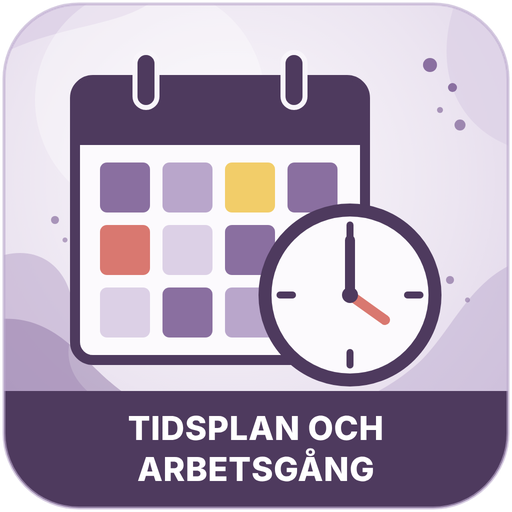
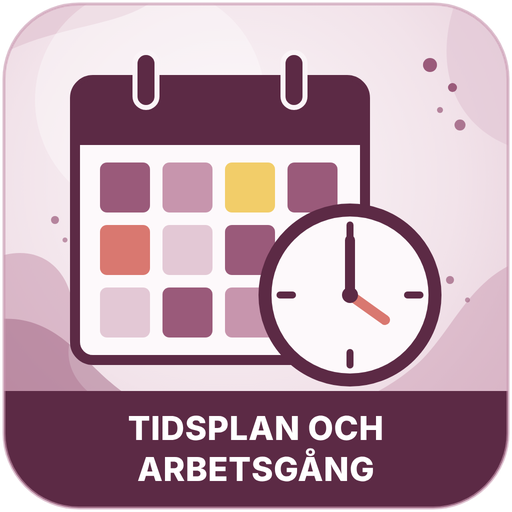
Åk 9 i plommon i stället för lila
Claude-Session: https://claude.ai/code/session_01PGQh3rzhHUhYNfbF9QTgdU

diff --git a/ak9/problemlosning.html b/ak9/problemlosning.html
@@ -5,13 +5,13 @@
 <link href="https://fonts.googleapis.com/css2?family=Inter:wght@400;600;700;800;900&display=swap" rel="stylesheet">
 <link rel="icon" href="../bilder/logo-mattekompassen.png">
 <link rel="stylesheet" href="../stil.css">
-<style>:root{--ink:#4E3A5E;--mid:#8A6FA0;--l:#DCD0E6;--vl:#ECE5F1;--w:#F3EEE4;--hi:#D6C3E8}</style></head><body>
+<style>:root{--ink:#5C2A45;--mid:#9A5A7A;--l:#E3C8D5;--vl:#F2E3EA;--w:#F3EEE4;--hi:#EBC6D6}</style></head><body>
 <header><div class="wrap"><a class="logo" href="../index.html"><img src="../bilder/logo-mattekompassen.png" alt=""><span><b>Mattekompassen</b><small>Örtagårdsskolan 7–9</small></span></a>
 <nav aria-label="Huvudmeny"><a href="../index.html" class="">Startsida</a><a href="../ak7.html" class="">Åk 7</a><a href="../ak8.html" class="">Åk 8</a><a href="../ak9.html" class="on">Åk 9</a></nav></div></header>
 
 <div class="hero"><div class="wrap" style="justify-content:flex-start"><img src="../bilder/ak9/06_Problemlosning.png" alt="" style="width:110px;border-radius:20px">
 <div><div class="etikett">ÅK 9 · MATEMATIK Z</div><h1>Problemlösning</h1></div></div></div>
-<svg class="wave" style="background:#F3EEE4" viewBox="0 0 1440 70" preserveAspectRatio="none" aria-hidden="true"><path d="M0 0 H1440 V25 C1100 80 700 0 360 45 C200 64 80 54 0 35 Z" fill="#4E3A5E"/></svg>
+<svg class="wave" style="background:#F3EEE4" viewBox="0 0 1440 70" preserveAspectRatio="none" aria-hidden="true"><path d="M0 0 H1440 V25 C1100 80 700 0 360 45 C200 64 80 54 0 35 Z" fill="#5C2A45"/></svg>
 <main><section><div class="wrap"><a class="omlank" href="../problemlosning.html">Så arbetar vi med problemlösning: nivåer och strategier →</a><details class="kap"><summary><span>Kapitel 1<small>Tal</small></span></summary><div class="lankar"><a href="https://drive.google.com/file/d/1uT8hYVYjdYvqAfwM3DH2VcEGiId-TMVw/view" target="_blank" rel="noopener"><b>1.1</b>Tal och beräkningar</a><a href="https://drive.google.com/file/d/1e619bYkYJUjx_Or282ayGXcqtMC_XiG5/view" target="_blank" rel="noopener"><b>1.2</b>Räkna med bråk</a><a href="https://drive.google.com/file/d/10bHT61sybIHBzOx17HouQQV5JBvWEgJr/view" target="_blank" rel="noopener"><b>1.3</b>Räkna med negativa tal</a><a href="https://drive.google.com/file/d/1y_YDiPxJ9TTUlpyyhv52GuADNhNRElIC/view" target="_blank" rel="noopener"><b>1.4</b>Räkna med potenser</a><a href="https://drive.google.com/file/d/1p4I-nKuXAcflqdTVnw002_RJEPSU7QwK/view" target="_blank" rel="noopener"><b>1.5</b>Små tal och tiopotenser</a><a href="https://drive.google.com/file/d/1KUJxGF4gtoWgHpZFmbhFsoDhVTgeTHAQ/view" target="_blank" rel="noopener"><b>1.6</b>Räkna med tal i grundpotensform</a><a href="https://drive.google.com/file/d/1tKtVnHqzJ2KyVFpUUxDWTakuMAOsjnIR/view" target="_blank" rel="noopener"><b>1.7</b>Kvadrater och kvadratrötter</a></div></details><details class="kap"><summary><span>Kapitel 2<small>Samband och förändring</small></span></summary><div class="lankar"><a href="https://drive.google.com/file/d/1xci8s0Dz8USkDwsm34szSIoF7p3x8KOz/view" target="_blank" rel="noopener"><b>2.1</b>Procent</a><a href="https://drive.google.com/file/d/1o-iAvwDGoTB2dRvBSzP8vf4wA8XVDlP4/view" target="_blank" rel="noopener"><b>2.2</b>Förändringsfaktor</a><a href="https://drive.google.com/file/d/1-Uy5Ddh9KKGSY3PV3JDYsNailfJRuYHO/view" target="_blank" rel="noopener"><b>2.3</b>Funktioner</a><a href="https://drive.google.com/file/d/10Gwcj3ddKDPrv2S1VF2c5MhLiPgKRxai/view" target="_blank" rel="noopener"><b>2.4</b>Linjära funktioner</a><a href="https://drive.google.com/file/d/161fFAtF3O9xOMkKQR67FKPNKqciu7OAq/view" target="_blank" rel="noopener"><b>2.5</b>Tillämpning av linjära funktioner</a></div></details><details class="kap"><summary><span>Kapitel 3<small>Algebra</small></span></summary><div class="lankar"><a href="https://drive.google.com/file/d/1EwcavIQrnRWiCDJKRw_vS9fXrurrg6VS/view" target="_blank" rel="noopener"><b>3.1</b>Uttryck och mönster</a><a href="https://drive.google.com/file/d/1F60Uhvt6tLUr1RQxnk7otjFE6yrI804U/view" target="_blank" rel="noopener"><b>3.2</b>Förenkling av uttryck</a><a href="https://drive.google.com/file/d/1VyDjVPP1pvcOm_DCCLMPNH8F0yMPd0NL/view" target="_blank" rel="noopener"><b>3.3</b>Ekvationer</a><a href="https://drive.google.com/file/d/1b-2AzAK7xk1OoGW_jjfz2aafXtBqawz7/view" target="_blank" rel="noopener"><b>3.4</b>Procent och ekvationer</a><a href="https://drive.google.com/file/d/1Vp36z4sxWqpMAi_F5Wzt_CpRA9qXC4Wn/view" target="_blank" rel="noopener"><b>3.5</b>Proportion</a><a href="https://drive.google.com/file/d/1Nt-vqDWEUY3uVVDghRmHdMD3PGeMjleW/view" target="_blank" rel="noopener"><b>3.6</b>Ekvationssystem</a></div></details><details class="kap"><summary><span>Kapitel 4<small>Geometri</small></span></summary><div class="lankar"><a href="https://drive.google.com/file/d/1F3I3pCXlj9AFCW_gcBWx8Q3MfcwGyQ3-/view" target="_blank" rel="noopener"><b>4.1</b>Spegling och symmetri</a><a href="https://drive.google.com/file/d/1lVE3a5U51uQf_kmv6EZApZH6gKPgDi1F/view" target="_blank" rel="noopener"><b>4.2</b>Skala</a><a href="https://drive.google.com/file/d/1U7Ok2PyJ1PCa5TNekXDOs-B_XuPHn33S/view" target="_blank" rel="noopener"><b>4.3</b>Ekvationer med flera nämnare</a><a href="https://drive.google.com/file/d/1mF5aOcA_MflrvXa4QMCEr6_ZcHrF4wrG/view" target="_blank" rel="noopener"><b>4.4</b>Likformighet</a><a href="https://drive.google.com/file/d/1aIK56qRB5LVXUFaHbPyIr48HPhiGQQXh/view" target="_blank" rel="noopener"><b>4.5</b>Pythagoras sats</a></div></details>
 <a class="knapp" href="../ak9.html">← Tillbaka till åk 9</a></div></section></main>
 <footer><div class="wrap"><b>Mattekompassen</b><span>Matematik för åk 7–9 på Örtagårdsskolan. Frågor? Prata med din mattelärare.</span></div></footer>

diff --git a/ak9/mal-och-framgangskriterier.html b/ak9/mal-och-framgangskriterier.html
@@ -5,13 +5,13 @@
 <link href="https://fonts.googleapis.com/css2?family=Inter:wght@400;600;700;800;900&display=swap" rel="stylesheet">
 <link rel="icon" href="../bilder/logo-mattekompassen.png">
 <link rel="stylesheet" href="../stil.css">
-<style>:root{--ink:#4E3A5E;--mid:#8A6FA0;--l:#DCD0E6;--vl:#ECE5F1;--w:#F3EEE4;--hi:#D6C3E8}</style></head><body>
+<style>:root{--ink:#5C2A45;--mid:#9A5A7A;--l:#E3C8D5;--vl:#F2E3EA;--w:#F3EEE4;--hi:#EBC6D6}</style></head><body>
 <header><div class="wrap"><a class="logo" href="../index.html"><img src="../bilder/logo-mattekompassen.png" alt=""><span><b>Mattekompassen</b><small>Örtagårdsskolan 7–9</small></span></a>
 <nav aria-label="Huvudmeny"><a href="../index.html" class="">Startsida</a><a href="../ak7.html" class="">Åk 7</a><a href="../ak8.html" class="">Åk 8</a><a href="../ak9.html" class="on">Åk 9</a></nav></div></header>
 
 <div class="hero"><div class="wrap" style="justify-content:flex-start"><img src="../bilder/ak9/09_Mal_och_framgangskriterier.png" alt="" style="width:110px;border-radius:20px">
 <div><div class="etikett">ÅK 9 · MATEMATIK Z</div><h1>Mål och framgångskriterier</h1></div></div></div>
-<svg class="wave" style="background:#F3EEE4" viewBox="0 0 1440 70" preserveAspectRatio="none" aria-hidden="true"><path d="M0 0 H1440 V25 C1100 80 700 0 360 45 C200 64 80 54 0 35 Z" fill="#4E3A5E"/></svg>
+<svg class="wave" style="background:#F3EEE4" viewBox="0 0 1440 70" preserveAspectRatio="none" aria-hidden="true"><path d="M0 0 H1440 V25 C1100 80 700 0 360 45 C200 64 80 54 0 35 Z" fill="#5C2A45"/></svg>
 <main><section><div class="wrap"><details class="kap"><summary><span>Kapitel 1<small>Tal</small></span></summary><div class="lankar"><a href="https://drive.google.com/file/d/1L6GsowKMl_0WOjjED361YzZXj-1MnbUp/view" target="_blank" rel="noopener"><b>1.1</b>Tal och beräkningar</a><a href="https://drive.google.com/file/d/1uTmxWs6y7QDzDEgY3sLv8xnMLzy6Px4h/view" target="_blank" rel="noopener"><b>1.2</b>Räkna med bråk</a><a href="https://drive.google.com/file/d/19xFbvAJLzmuwBFpDjpmLf3fIv_7RVsTj/view" target="_blank" rel="noopener"><b>1.3</b>Räkna med negativa tal</a><a href="https://drive.google.com/file/d/1MPGz9WMXQY7Care9Y58CGKgGY0rv4nrz/view" target="_blank" rel="noopener"><b>1.4</b>Räkna med potenser</a><a href="https://drive.google.com/file/d/1fTVTjZjOQ8_D3CFjWdAOKoJxR6ZfMZX3/view" target="_blank" rel="noopener"><b>1.5</b>Små tal och tiopotenser</a><a href="https://drive.google.com/file/d/1orzoDbs9Wc60TZgm1zzA_nZwUsLsrcF7/view" target="_blank" rel="noopener"><b>1.6</b>Räkna med tal i grundpotensform</a><a href="https://drive.google.com/file/d/1aCa6rcyqyaUlQhH9ntCc7B6F0pv94FpF/view" target="_blank" rel="noopener"><b>1.7</b>Kvadrater och kvadratrötter</a></div></details><details class="kap"><summary><span>Kapitel 2<small>Samband och förändring</small></span></summary><div class="lankar"><a href="https://drive.google.com/file/d/1IPtFYOxrArr8Q2-NPdu3R3MR8pVePO-8/view" target="_blank" rel="noopener"><b>2.1</b>Procent</a><a href="https://drive.google.com/file/d/1rO5921Ndv07jh4HoTIkz91hVwaTcsmhv/view" target="_blank" rel="noopener"><b>2.2</b>Förändringsfaktor</a><a href="https://drive.google.com/file/d/1pa6UDKHojWYWYmvsHvJAfzoMSCP73AG5/view" target="_blank" rel="noopener"><b>2.3</b>Funktioner</a><a href="https://drive.google.com/file/d/1ovT-gnw8dD2rUSHcH_eqTFzdd_Ov8jEj/view" target="_blank" rel="noopener"><b>2.4</b>Linjära funktioner</a><a href="https://drive.google.com/file/d/1ugP-FuPkK846lZUf0OGAjwI0HU4zohvD/view" target="_blank" rel="noopener"><b>2.5</b>Tillämpning av linjära funktioner</a></div></details><details class="kap"><summary><span>Kapitel 3<small>Algebra</small></span></summary><div class="lankar"><a href="https://drive.google.com/file/d/1_NHwrYGg_Qxq2ny1UFtDOEW05VXRMlSE/view" target="_blank" rel="noopener"><b>3.1</b>Uttryck och mönster</a><a href="https://drive.google.com/file/d/1qggYRx80hawWvi9oswVEvkdPCaNRvoFd/view" target="_blank" rel="noopener"><b>3.2</b>Förenkling av uttryck</a><a href="https://drive.google.com/file/d/1rsUfTRqq0ZuScBaOuAeUXEBhwx7nJHxb/view" target="_blank" rel="noopener"><b>3.3</b>Ekvationer</a><a href="https://drive.google.com/file/d/1jPFAWAIOLHfAwB6_Z5vkjs9Yu2QhrkDJ/view" target="_blank" rel="noopener"><b>3.4</b>Procent och ekvationer</a><a href="https://drive.google.com/file/d/1B7BJUOQP4UsQsRG0YDmHxdz7Wgfix_Te/view" target="_blank" rel="noopener"><b>3.5</b>Proportion</a><a href="https://drive.google.com/file/d/1fAp2AeKwCijnN0O7eJGs6Gz2KpQnmbEc/view" target="_blank" rel="noopener"><b>3.6</b>Ekvationssystem</a></div></details><details class="kap"><summary><span>Kapitel 4<small>Geometri</small></span></summary><div class="lankar"><a href="https://drive.google.com/file/d/1rnbq2G2HOvJEgErtJ9ONrzk0Vzi364Cb/view" target="_blank" rel="noopener"><b>4.1</b>Spegling och symmetri</a><a href="https://drive.google.com/file/d/1v6aYrz2VO51gCASLIJT9044mIfbB70GS/view" target="_blank" rel="noopener"><b>4.2</b>Skala</a><a href="https://drive.google.com/file/d/1CWuHMr6KUTWVc9I4hDjXQ2iOMBtiBrdU/view" target="_blank" rel="noopener"><b>4.3</b>Ekvationer med flera nämnare</a><a href="https://drive.google.com/file/d/1fQXwk7gwP734oz9gSAP5X-n2pRB0zFcv/view" target="_blank" rel="noopener"><b>4.4</b>Likformighet</a><a href="https://drive.google.com/file/d/1h7y819khdQIRyUGJKTlrKCs3tRLBSlfz/view" target="_blank" rel="noopener"><b>4.5</b>Pythagoras sats</a></div></details>
 <a class="knapp" href="../ak9.html">← Tillbaka till åk 9</a></div></section></main>
 <footer><div class="wrap"><b>Mattekompassen</b><span>Matematik för åk 7–9 på Örtagårdsskolan. Frågor? Prata med din mattelärare.</span></div></footer>

diff --git a/ak9/tillbakablick.html b/ak9/tillbakablick.html
@@ -5,13 +5,13 @@
 <link href="https://fonts.googleapis.com/css2?family=Inter:wght@400;600;700;800;900&display=swap" rel="stylesheet">
 <link rel="icon" href="../bilder/logo-mattekompassen.png">
 <link rel="stylesheet" href="../stil.css">
-<style>:root{--ink:#4E3A5E;--mid:#8A6FA0;--l:#DCD0E6;--vl:#ECE5F1;--w:#F3EEE4;--hi:#D6C3E8}</style></head><body>
+<style>:root{--ink:#5C2A45;--mid:#9A5A7A;--l:#E3C8D5;--vl:#F2E3EA;--w:#F3EEE4;--hi:#EBC6D6}</style></head><body>
 <header><div class="wrap"><a class="logo" href="../index.html"><img src="../bilder/logo-mattekompassen.png" alt=""><span><b>Mattekompassen</b><small>Örtagårdsskolan 7–9</small></span></a>
 <nav aria-label="Huvudmeny"><a href="../index.html" class="">Startsida</a><a href="../ak7.html" class="">Åk 7</a><a href="../ak8.html" class="">Åk 8</a><a href="../ak9.html" class="on">Åk 9</a></nav></div></header>
 
 <div class="hero"><div class="wrap" style="justify-content:flex-start"><img src="../bilder/ak9/08_Tillbakablick.png" alt="" style="width:110px;border-radius:20px">
 <div><div class="etikett">ÅK 9 · MATEMATIK Z</div><h1>Tillbakablick</h1></div></div></div>
-<svg class="wave" style="background:#F3EEE4" viewBox="0 0 1440 70" preserveAspectRatio="none" aria-hidden="true"><path d="M0 0 H1440 V25 C1100 80 700 0 360 45 C200 64 80 54 0 35 Z" fill="#4E3A5E"/></svg>
+<svg class="wave" style="background:#F3EEE4" viewBox="0 0 1440 70" preserveAspectRatio="none" aria-hidden="true"><path d="M0 0 H1440 V25 C1100 80 700 0 360 45 C200 64 80 54 0 35 Z" fill="#5C2A45"/></svg>
 <main><section><div class="wrap"><details class="kap"><summary><span>Kapitel 1<small>Tal</small></span></summary><div class="lankar"><a href="https://drive.google.com/file/d/11TOptj3iIhA4dyjIOF5UEO7hK1nH4Otw/view" target="_blank" rel="noopener"><b>1.1</b>Tal och beräkningar</a><a href="https://drive.google.com/file/d/1Y_AxlgCsFJLCxXEUB1jrOH66NI2J-7W9/view" target="_blank" rel="noopener"><b>1.2</b>Räkna med bråk</a><a href="https://drive.google.com/file/d/1njBjNhVd3bwQLGXbaPQjIig4P_Qho355/view" target="_blank" rel="noopener"><b>1.3</b>Räkna med negativa tal</a><a href="https://drive.google.com/file/d/1puzAdaa2RawFCm4uGAHmWTaf1byeTnmf/view" target="_blank" rel="noopener"><b>1.4</b>Räkna med potenser</a><a href="https://drive.google.com/file/d/1fOl6lWNQ5xfgkH5dtrdeItLMrfLphZbi/view" target="_blank" rel="noopener"><b>1.5</b>Små tal och tiopotenser</a><a href="https://drive.google.com/file/d/1eycIkPA7gtb47APnBUwUQbikLrmqt6lk/view" target="_blank" rel="noopener"><b>1.6</b>Räkna med tal i grundpotensform</a><a href="https://drive.google.com/file/d/17ZZ3-_W7FO31dYA12mkJ_5Q4FVOPP7gV/view" target="_blank" rel="noopener"><b>1.7</b>Kvadrater och kvadratrötter</a></div></details><details class="kap"><summary><span>Kapitel 2<small>Samband och förändring</small></span></summary><div class="lankar"><a href="https://drive.google.com/file/d/1R2U45LBlIXnv42Xj-pPEyUdb7uEdo-mB/view" target="_blank" rel="noopener"><b>2.1</b>Procent</a><a href="https://drive.google.com/file/d/1VoG4_boWk9pGfs8GPdBWlttxGlY-6azN/view" target="_blank" rel="noopener"><b>2.2</b>Förändringsfaktor</a><a href="https://drive.google.com/file/d/1CHsz2vRQNdS6T9e6HJVlduCR13oH2aNb/view" target="_blank" rel="noopener"><b>2.3</b>Funktioner</a><a href="https://drive.google.com/file/d/1iqX0oM3lmjrCshPa6FXWexzKszBPdBCw/view" target="_blank" rel="noopener"><b>2.4</b>Linjära funktioner</a><a href="https://drive.google.com/file/d/16HiAKbssc-upJNqyiQLejOdrDnUkTNWN/view" target="_blank" rel="noopener"><b>2.5</b>Tillämpning av linjära funktioner</a></div></details><details class="kap"><summary><span>Kapitel 3<small>Algebra</small></span></summary><div class="lankar"><a href="https://drive.google.com/file/d/1qRiwj_57Y7DT0HDC9nTUy8n5aHmBSYMZ/view" target="_blank" rel="noopener"><b>3.1</b>Uttryck och mönster</a><a href="https://drive.google.com/file/d/1YtuE2m2Q9SX51z2FQxPHyJdVk7mPf40Z/view" target="_blank" rel="noopener"><b>3.2</b>Förenkling av uttryck</a><a href="https://drive.google.com/file/d/1o1x3HiZ0XTelS7J27joN-iHN780GgceO/view" target="_blank" rel="noopener"><b>3.3</b>Ekvationer</a><a href="https://drive.google.com/file/d/1bK8IgT8ccWJUHiFTq2GoxFuOJbkh8z_r/view" target="_blank" rel="noopener"><b>3.4</b>Procent och ekvationer</a><a href="https://drive.google.com/file/d/1GO2Eztl3O2O0eZ2setw_hWidy_4jL9pZ/view" target="_blank" rel="noopener"><b>3.5</b>Proportion</a><a href="https://drive.google.com/file/d/17WuJfWde1Pc8dS9ZmTHgvtQiOOKZfh8u/view" target="_blank" rel="noopener"><b>3.6</b>Ekvationssystem</a></div></details><details class="kap"><summary><span>Kapitel 4<small>Geometri</small></span></summary><div class="lankar"><a href="https://drive.google.com/file/d/1UROs-vBZDiW4n3Ka_247uWLTZQ1Yqpyc/view" target="_blank" rel="noopener"><b>4.1</b>Spegling och symmetri</a><a href="https://drive.google.com/file/d/1BKcJzmGzKsGLDQv_Lks8KqxaJrgO-B2J/view" target="_blank" rel="noopener"><b>4.2</b>Skala</a><a href="https://drive.google.com/file/d/1DIvaw7EqxzTHnKi-BFlgQoKpYyXaFO6z/view" target="_blank" rel="noopener"><b>4.3</b>Ekvationer med flera nämnare</a><a href="https://drive.google.com/file/d/1azOnByuWHKHBdqOfM6CbpbWv8E4csuhS/view" target="_blank" rel="noopener"><b>4.4</b>Likformighet</a><a href="https://drive.google.com/file/d/1FJGHR3xTtzkvfEF3Kr0iJAZeqQg4BmPH/view" target="_blank" rel="noopener"><b>4.5</b>Pythagoras sats</a></div></details>
 <a class="knapp" href="../ak9.html">← Tillbaka till åk 9</a></div></section></main>
 <footer><div class="wrap"><b>Mattekompassen</b><span>Matematik för åk 7–9 på Örtagårdsskolan. Frågor? Prata med din mattelärare.</span></div></footer>

diff --git a/ak9/trana.html b/ak9/trana.html
@@ -5,13 +5,13 @@
 <link href="https://fonts.googleapis.com/css2?family=Inter:wght@400;600;700;800;900&display=swap" rel="stylesheet">
 <link rel="icon" href="../bilder/logo-mattekompassen.png">
 <link rel="stylesheet" href="../stil.css">
-<style>:root{--ink:#4E3A5E;--mid:#8A6FA0;--l:#DCD0E6;--vl:#ECE5F1;--w:#F3EEE4;--hi:#D6C3E8}</style></head><body>
+<style>:root{--ink:#5C2A45;--mid:#9A5A7A;--l:#E3C8D5;--vl:#F2E3EA;--w:#F3EEE4;--hi:#EBC6D6}</style></head><body>
 <header><div class="wrap"><a class="logo" href="../index.html"><img src="../bilder/logo-mattekompassen.png" alt=""><span><b>Mattekompassen</b><small>Örtagårdsskolan 7–9</small></span></a>
 <nav aria-label="Huvudmeny"><a href="../index.html" class="">Startsida</a><a href="../ak7.html" class="">Åk 7</a><a href="../ak8.html" class="">Åk 8</a><a href="../ak9.html" class="on">Åk 9</a></nav></div></header>
 
 <div class="hero"><div class="wrap" style="justify-content:flex-start"><div class="num" aria-hidden="true">9</div>
 <div><div class="etikett">ÅK 9 · MATEMATIK Z · INTERAKTIVA ÖVNINGAR</div><h1>Interaktiva övningar</h1><p>Klicka, dra och få svar direkt. Välj kapitel och typ av övning.</p></div></div></div>
-<svg class="wave" style="background:#F3EEE4" viewBox="0 0 1440 70" preserveAspectRatio="none" aria-hidden="true"><path d="M0 0 H1440 V25 C1100 80 700 0 360 45 C200 64 80 54 0 35 Z" fill="#4E3A5E"/></svg><style>.kapblock{background:#EAE2EF}.kapblock:nth-child(even){background:#F0EAF3}.typ:nth-child(1){background:#5E4A6E}.typ:nth-child(2){background:#6A5478}.typ:nth-child(3){background:#5A4F70}.typ:nth-child(4){background:#6E5A72}.typ:nth-child(5){background:#66506E}.typ b{color:#F1E9F5}</style>
+<svg class="wave" style="background:#F3EEE4" viewBox="0 0 1440 70" preserveAspectRatio="none" aria-hidden="true"><path d="M0 0 H1440 V25 C1100 80 700 0 360 45 C200 64 80 54 0 35 Z" fill="#5C2A45"/></svg><style>.kapblock{background:#F2E3EA}.kapblock:nth-child(even){background:#F6ECF0}.typ:nth-child(1){background:#6A3A54}.typ:nth-child(2){background:#74445E}.typ:nth-child(3){background:#6B4258}.typ:nth-child(4){background:#7A4C63}.typ:nth-child(5){background:#704860}.typ b{color:#F7E9F0}</style>
 <main><section><div class="wrap"><div class="kapblock" id="kap1"><h2>Kapitel 1 <span style="font-weight:500;opacity:.7">Tal</span></h2><div class="typer"><a class="typ" href="trana-rakna.html?kap=1"><b>Per avsnitt</b>🔢 Räkneträning</a><a class="typ" href="trana-exempel.html?kap=1"><b>Titta och välj</b>🔍 Från exempel till ord</a><a class="typ" href="trana-dra.html?kap=1"><b>Ord i mening</b>🧲 Dra ordet</a><a class="typ" href="trana-begrepp.html?kap=1"><b>Hela kapitlet</b>🧩 Matcha begrepp</a><a class="typ" href="trana-quiz.html?kap=1"><b>Flervalsfrågor</b>❓ Quiz</a></div></div><div class="kapblock" id="kap2"><h2>Kapitel 2 <span style="font-weight:500;opacity:.7">Samband och förändring</span></h2><div class="typer"><a class="typ" href="trana-rakna.html?kap=2"><b>Per avsnitt</b>🔢 Räkneträning</a><a class="typ" href="trana-exempel.html?kap=2"><b>Titta och välj</b>🔍 Från exempel till ord</a><a class="typ" href="trana-dra.html?kap=2"><b>Ord i mening</b>🧲 Dra ordet</a><a class="typ" href="trana-begrepp.html?kap=2"><b>Hela kapitlet</b>🧩 Matcha begrepp</a><a class="typ" href="trana-quiz.html?kap=2"><b>Flervalsfrågor</b>❓ Quiz</a></div></div><div class="kapblock" id="kap3"><h2>Kapitel 3 <span style="font-weight:500;opacity:.7">Algebra</span></h2><div class="typer"><a class="typ" href="trana-rakna.html?kap=3"><b>Per avsnitt</b>🔢 Räkneträning</a><a class="typ" href="trana-exempel.html?kap=3"><b>Titta och välj</b>🔍 Från exempel till ord</a><a class="typ" href="trana-dra.html?kap=3"><b>Ord i mening</b>🧲 Dra ordet</a><a class="typ" href="trana-begrepp.html?kap=3"><b>Hela kapitlet</b>🧩 Matcha begrepp</a><a class="typ" href="trana-quiz.html?kap=3"><b>Flervalsfrågor</b>❓ Quiz</a></div></div><div class="kapblock" id="kap4"><h2>Kapitel 4 <span style="font-weight:500;opacity:.7">Geometri</span></h2><div class="typer"><a class="typ" href="trana-rakna.html?kap=4"><b>Per avsnitt</b>🔢 Räkneträning</a><a class="typ" href="trana-exempel.html?kap=4"><b>Titta och välj</b>🔍 Från exempel till ord</a><a class="typ" href="trana-dra.html?kap=4"><b>Ord i mening</b>🧲 Dra ordet</a><a class="typ" href="trana-begrepp.html?kap=4"><b>Hela kapitlet</b>🧩 Matcha begrepp</a><a class="typ" href="trana-quiz.html?kap=4"><b>Flervalsfrågor</b>❓ Quiz</a></div></div>
 <a class="knapp" href="../ak9.html">← Tillbaka till åk 9</a></div></section></main>
 <footer><div class="wrap"><b>Mattekompassen</b><span>Matematik för åk 7–9 på Örtagårdsskolan. Frågor? Prata med din mattelärare.</span></div></footer>

diff --git a/ak9.html b/ak9.html
@@ -5,14 +5,14 @@
 <link href="https://fonts.googleapis.com/css2?family=Inter:wght@400;600;700;800;900&display=swap" rel="stylesheet">
 <link rel="icon" href="bilder/logo-mattekompassen.png">
 <link rel="stylesheet" href="stil.css">
-<style>:root{--ink:#4E3A5E;--mid:#8A6FA0;--l:#DCD0E6;--vl:#ECE5F1;--w:#F3EEE4;--hi:#D6C3E8}</style></head><body>
+<style>:root{--ink:#5C2A45;--mid:#9A5A7A;--l:#E3C8D5;--vl:#F2E3EA;--w:#F3EEE4;--hi:#EBC6D6}</style></head><body>
 <header><div class="wrap"><a class="logo" href="index.html"><img src="bilder/logo-mattekompassen.png" alt=""><span><b>Mattekompassen</b><small>Örtagårdsskolan 7–9</small></span></a>
 <nav aria-label="Huvudmeny"><a href="index.html" class="">Startsida</a><a href="ak7.html" class="">Åk 7</a><a href="ak8.html" class="">Åk 8</a><a href="ak9.html" class="on">Åk 9</a></nav></div></header>
 
 <div class="hero"><div class="wrap" style="justify-content:flex-start"><div class="num" aria-hidden="true">9</div>
 <div><div class="etikett">MATEMATIK Z</div><h1 class="streck">Åk 9</h1>
 <p>Planering, lektioner, problemlösning, repetitionsuppgifter och mycket mer för Matematik Z.</p></div></div></div>
-<svg class="wave" style="background:#F3EEE4" viewBox="0 0 1440 70" preserveAspectRatio="none" aria-hidden="true"><path d="M0 0 H1440 V25 C1100 80 700 0 360 45 C200 64 80 54 0 35 Z" fill="#4E3A5E"/></svg>
+<svg class="wave" style="background:#F3EEE4" viewBox="0 0 1440 70" preserveAspectRatio="none" aria-hidden="true"><path d="M0 0 H1440 V25 C1100 80 700 0 360 45 C200 64 80 54 0 35 Z" fill="#5C2A45"/></svg>
 <main><section class="center"><div class="wrap"><h2>Lektionsmaterial</h2><p class="sub">Allt du behöver till lektionerna i åk 9.</p>
 <div class="ikoner"><a href="ak9/tidsplan-och-arbetsgang.html"><img src="bilder/ak9/14_Tidsplan_och_arbetsgang.png" alt="Tidsplan och arbetsgång"></a><a href="ak9/lektioner.html"><img src="bilder/ak9/07_Lektioner.png" alt="Lektioner"></a><a href="ak9/mal-och-framgangskriterier.html"><img src="bilder/ak9/09_Mal_och_framgangskriterier.png" alt="Mål och framgångskriterier"></a><a href="ak9/tillbakablick.html"><img src="bilder/ak9/08_Tillbakablick.png" alt="Tillbakablick"></a><a href="ak9/trygg-start.html"><img src="bilder/ak9/10_Trygg_start.png" alt="Trygg start"></a><a href="ak9/problemlosning.html"><img src="bilder/ak9/06_Problemlosning.png" alt="Problemlösning"></a><a href="ak9/repetition.html"><img src="bilder/ak9/11_Repetition.png" alt="Repetition"></a><a href="ak9/diagnos.html"><img src="bilder/ak9/12_Diagnos.png" alt="Diagnos"></a><a href="ak9/test.html"><img src="bilder/ak9/13_Test.png" alt="Test"></a></div><a class="info trana-ruta" href="ak9/trana.html"><span class="ik"><svg viewBox="0 0 48 48" fill="none" stroke="#fff" stroke-width="3.5" stroke-linecap="round" stroke-linejoin="round"><rect x="9" y="9" width="30" height="21" rx="2.5"/><path d="M4 35h40l-3 4H7z"/><path d="M18 20l4 4 8-8" stroke="#F2CD69"/></svg></span><span><h3>Interaktiva övningar</h3><p>Klicka, dra och få svar direkt. Öva på räkning och matteord.</p></span><span class="pil">→</span></a></div></section></main>
 <footer><div class="wrap"><b>Mattekompassen</b><span>Matematik för åk 7–9 på Örtagårdsskolan. Frågor? Prata med din mattelärare.</span></div></footer>

diff --git a/ak9/repetition.html b/ak9/repetition.html
@@ -5,13 +5,13 @@
 <link href="https://fonts.googleapis.com/css2?family=Inter:wght@400;600;700;800;900&display=swap" rel="stylesheet">
 <link rel="icon" href="../bilder/logo-mattekompassen.png">
 <link rel="stylesheet" href="../stil.css">
-<style>:root{--ink:#4E3A5E;--mid:#8A6FA0;--l:#DCD0E6;--vl:#ECE5F1;--w:#F3EEE4;--hi:#D6C3E8}</style></head><body>
+<style>:root{--ink:#5C2A45;--mid:#9A5A7A;--l:#E3C8D5;--vl:#F2E3EA;--w:#F3EEE4;--hi:#EBC6D6}</style></head><body>
 <header><div class="wrap"><a class="logo" href="../index.html"><img src="../bilder/logo-mattekompassen.png" alt=""><span><b>Mattekompassen</b><small>Örtagårdsskolan 7–9</small></span></a>
 <nav aria-label="Huvudmeny"><a href="../index.html" class="">Startsida</a><a href="../ak7.html" class="">Åk 7</a><a href="../ak8.html" class="">Åk 8</a><a href="../ak9.html" class="on">Åk 9</a></nav></div></header>
 
 <div class="hero"><div class="wrap" style="justify-content:flex-start"><img src="../bilder/ak9/11_Repetition.png" alt="" style="width:110px;border-radius:20px">
 <div><div class="etikett">ÅK 9 · MATEMATIK Z</div><h1>Repetition</h1></div></div></div>
-<svg class="wave" style="background:#F3EEE4" viewBox="0 0 1440 70" preserveAspectRatio="none" aria-hidden="true"><path d="M0 0 H1440 V25 C1100 80 700 0 360 45 C200 64 80 54 0 35 Z" fill="#4E3A5E"/></svg>
+<svg class="wave" style="background:#F3EEE4" viewBox="0 0 1440 70" preserveAspectRatio="none" aria-hidden="true"><path d="M0 0 H1440 V25 C1100 80 700 0 360 45 C200 64 80 54 0 35 Z" fill="#5C2A45"/></svg>
 <main><section><div class="wrap"><details class="kap"><summary><span>Kapitel 1<small>Tal</small></span></summary><div class="lankar"><a href="https://drive.google.com/file/d/1fT9xaRYNouWljieAjJlkOChaLlDzuc93/view" target="_blank" rel="noopener"><b>Genomgång</b>av repetitionen</a></div></details><details class="kap"><summary><span>Kapitel 2<small>Samband och förändring</small></span></summary><div class="lankar"><a href="https://drive.google.com/file/d/1gcxa6NShdvqGVbnscIQwVFb2gdOlhhOA/view" target="_blank" rel="noopener"><b>Genomgång</b>av repetitionen</a></div></details><details class="kap"><summary><span>Kapitel 3<small>Algebra</small></span></summary><div class="lankar"><a href="https://drive.google.com/file/d/1ybGmRWCT2mWpcG61xehU8JGqIfa4-vJR/view" target="_blank" rel="noopener"><b>Genomgång</b>av repetitionen</a></div></details><details class="kap"><summary><span>Kapitel 4<small>Geometri</small></span></summary><div class="lankar"><a href="https://drive.google.com/file/d/1VUhiS8K4llm_M94dJsty3kd3ndoGS6ej/view" target="_blank" rel="noopener"><b>Genomgång</b>av repetitionen</a></div></details>
 <a class="knapp" href="../ak9.html">← Tillbaka till åk 9</a></div></section></main>
 <footer><div class="wrap"><b>Mattekompassen</b><span>Matematik för åk 7–9 på Örtagårdsskolan. Frågor? Prata med din mattelärare.</span></div></footer>

diff --git a/ak9/test.html b/ak9/test.html
@@ -5,13 +5,13 @@
 <link href="https://fonts.googleapis.com/css2?family=Inter:wght@400;600;700;800;900&display=swap" rel="stylesheet">
 <link rel="icon" href="../bilder/logo-mattekompassen.png">
 <link rel="stylesheet" href="../stil.css">
-<style>:root{--ink:#4E3A5E;--mid:#8A6FA0;--l:#DCD0E6;--vl:#ECE5F1;--w:#F3EEE4;--hi:#D6C3E8}</style></head><body>
+<style>:root{--ink:#5C2A45;--mid:#9A5A7A;--l:#E3C8D5;--vl:#F2E3EA;--w:#F3EEE4;--hi:#EBC6D6}</style></head><body>
 <header><div class="wrap"><a class="logo" href="../index.html"><img src="../bilder/logo-mattekompassen.png" alt=""><span><b>Mattekompassen</b><small>Örtagårdsskolan 7–9</small></span></a>
 <nav aria-label="Huvudmeny"><a href="../index.html" class="">Startsida</a><a href="../ak7.html" class="">Åk 7</a><a href="../ak8.html" class="">Åk 8</a><a href="../ak9.html" class="on">Åk 9</a></nav></div></header>
 
 <div class="hero"><div class="wrap" style="justify-content:flex-start"><img src="../bilder/ak9/13_Test.png" alt="" style="width:110px;border-radius:20px">
 <div><div class="etikett">ÅK 9 · MATEMATIK Z</div><h1>Test</h1></div></div></div>
-<svg class="wave" style="background:#F3EEE4" viewBox="0 0 1440 70" preserveAspectRatio="none" aria-hidden="true"><path d="M0 0 H1440 V25 C1100 80 700 0 360 45 C200 64 80 54 0 35 Z" fill="#4E3A5E"/></svg>
+<svg class="wave" style="background:#F3EEE4" viewBox="0 0 1440 70" preserveAspectRatio="none" aria-hidden="true"><path d="M0 0 H1440 V25 C1100 80 700 0 360 45 C200 64 80 54 0 35 Z" fill="#5C2A45"/></svg>
 <main><section><div class="wrap"><details class="kap"><summary><span>Kapitel 1<small>Tal</small></span></summary><div class="lankar"><a href="https://drive.google.com/file/d/1ZjRaO-y984JLNa8m1KzA_bNZICIjGE4t/view" target="_blank" rel="noopener"><b>Genomgång</b>av testet</a></div></details><details class="kap"><summary><span>Kapitel 2<small>Samband och förändring</small></span></summary><div class="lankar"><a href="https://drive.google.com/file/d/17eAn961r0ephSJcaOC-soEcccpU8qytK/view" target="_blank" rel="noopener"><b>Genomgång</b>av testet</a></div></details><details class="kap"><summary><span>Kapitel 3<small>Algebra</small></span></summary><div class="lankar"><a href="https://drive.google.com/file/d/1vqru-yvqXS59uZAEl7IIByf39lyk7tUr/view" target="_blank" rel="noopener"><b>Genomgång</b>av testet</a></div></details><details class="kap"><summary><span>Kapitel 4<small>Geometri</small></span></summary><div class="lankar"><a href="https://drive.google.com/file/d/14NipVR3q8sFofAlHO54rDQA7FY1SmMBk/view" target="_blank" rel="noopener"><b>Genomgång</b>av testet</a></div></details>
 <a class="knapp" href="../ak9.html">← Tillbaka till åk 9</a></div></section></main>
 <footer><div class="wrap"><b>Mattekompassen</b><span>Matematik för åk 7–9 på Örtagårdsskolan. Frågor? Prata med din mattelärare.</span></div></footer>

diff --git a/ak9/trana-exempel.html b/ak9/trana-exempel.html
@@ -5,13 +5,13 @@
 <link href="https://fonts.googleapis.com/css2?family=Inter:wght@400;600;700;800;900&display=swap" rel="stylesheet">
 <link rel="icon" href="../bilder/logo-mattekompassen.png">
 <link rel="stylesheet" href="../stil.css">
-<style>:root{--ink:#4E3A5E;--mid:#8A6FA0;--l:#DCD0E6;--vl:#ECE5F1;--w:#F3EEE4;--hi:#D6C3E8}</style></head><body>
+<style>:root{--ink:#5C2A45;--mid:#9A5A7A;--l:#E3C8D5;--vl:#F2E3EA;--w:#F3EEE4;--hi:#EBC6D6}</style></head><body>
 <header><div class="wrap"><a class="logo" href="../index.html"><img src="../bilder/logo-mattekompassen.png" alt=""><span><b>Mattekompassen</b><small>Örtagårdsskolan 7–9</small></span></a>
 <nav aria-label="Huvudmeny"><a href="../index.html" class="">Startsida</a><a href="../ak7.html" class="">Åk 7</a><a href="../ak8.html" class="">Åk 8</a><a href="../ak9.html" class="on">Åk 9</a></nav></div></header>
 
 <div class="hero"><div class="wrap" style="justify-content:flex-start"><div class="num" aria-hidden="true">9</div>
 <div><div class="etikett">ÅK 9 · MATEMATIK Z · INTERAKTIVA ÖVNINGAR</div><h1>Från exempel till ord</h1><p>Titta på exemplet och välj rätt ord.</p></div></div></div>
-<svg class="wave" style="background:#F3EEE4" viewBox="0 0 1440 70" preserveAspectRatio="none" aria-hidden="true"><path d="M0 0 H1440 V25 C1100 80 700 0 360 45 C200 64 80 54 0 35 Z" fill="#4E3A5E"/></svg><style>.kapblock{background:#EAE2EF}.kapblock:nth-child(even){background:#F0EAF3}.typ:nth-child(1){background:#5E4A6E}.typ:nth-child(2){background:#6A5478}.typ:nth-child(3){background:#5A4F70}.typ:nth-child(4){background:#6E5A72}.typ:nth-child(5){background:#66506E}.typ b{color:#F1E9F5}</style>
+<svg class="wave" style="background:#F3EEE4" viewBox="0 0 1440 70" preserveAspectRatio="none" aria-hidden="true"><path d="M0 0 H1440 V25 C1100 80 700 0 360 45 C200 64 80 54 0 35 Z" fill="#5C2A45"/></svg><style>.kapblock{background:#F2E3EA}.kapblock:nth-child(even){background:#F6ECF0}.typ:nth-child(1){background:#6A3A54}.typ:nth-child(2){background:#74445E}.typ:nth-child(3){background:#6B4258}.typ:nth-child(4){background:#7A4C63}.typ:nth-child(5){background:#704860}.typ b{color:#F7E9F0}</style>
 <main><section><div class="wrap"><h2 id="kaprubrik">Kapitel</h2>
 <div id="trana" data-lage="exempel"></div>
 <a class="knapp" href="trana.html">← Alla övningar</a></div></section></main>

diff --git a/ak9/trana-dra.html b/ak9/trana-dra.html
@@ -5,13 +5,13 @@
 <link href="https://fonts.googleapis.com/css2?family=Inter:wght@400;600;700;800;900&display=swap" rel="stylesheet">
 <link rel="icon" href="../bilder/logo-mattekompassen.png">
 <link rel="stylesheet" href="../stil.css">
-<style>:root{--ink:#4E3A5E;--mid:#8A6FA0;--l:#DCD0E6;--vl:#ECE5F1;--w:#F3EEE4;--hi:#D6C3E8}</style></head><body>
+<style>:root{--ink:#5C2A45;--mid:#9A5A7A;--l:#E3C8D5;--vl:#F2E3EA;--w:#F3EEE4;--hi:#EBC6D6}</style></head><body>
 <header><div class="wrap"><a class="logo" href="../index.html"><img src="../bilder/logo-mattekompassen.png" alt=""><span><b>Mattekompassen</b><small>Örtagårdsskolan 7–9</small></span></a>
 <nav aria-label="Huvudmeny"><a href="../index.html" class="">Startsida</a><a href="../ak7.html" class="">Åk 7</a><a href="../ak8.html" class="">Åk 8</a><a href="../ak9.html" class="on">Åk 9</a></nav></div></header>
 
 <div class="hero"><div class="wrap" style="justify-content:flex-start"><div class="num" aria-hidden="true">9</div>
 <div><div class="etikett">ÅK 9 · MATEMATIK Z · INTERAKTIVA ÖVNINGAR</div><h1>Dra ordet till rätt lucka</h1><p>Sätt in rätt matteord i meningen.</p></div></div></div>
-<svg class="wave" style="background:#F3EEE4" viewBox="0 0 1440 70" preserveAspectRatio="none" aria-hidden="true"><path d="M0 0 H1440 V25 C1100 80 700 0 360 45 C200 64 80 54 0 35 Z" fill="#4E3A5E"/></svg><style>.kapblock{background:#EAE2EF}.kapblock:nth-child(even){background:#F0EAF3}.typ:nth-child(1){background:#5E4A6E}.typ:nth-child(2){background:#6A5478}.typ:nth-child(3){background:#5A4F70}.typ:nth-child(4){background:#6E5A72}.typ:nth-child(5){background:#66506E}.typ b{color:#F1E9F5}</style>
+<svg class="wave" style="background:#F3EEE4" viewBox="0 0 1440 70" preserveAspectRatio="none" aria-hidden="true"><path d="M0 0 H1440 V25 C1100 80 700 0 360 45 C200 64 80 54 0 35 Z" fill="#5C2A45"/></svg><style>.kapblock{background:#F2E3EA}.kapblock:nth-child(even){background:#F6ECF0}.typ:nth-child(1){background:#6A3A54}.typ:nth-child(2){background:#74445E}.typ:nth-child(3){background:#6B4258}.typ:nth-child(4){background:#7A4C63}.typ:nth-child(5){background:#704860}.typ b{color:#F7E9F0}</style>
 <main><section><div class="wrap"><h2 id="kaprubrik">Kapitel</h2>
 <div id="trana" data-lage="dra"></div>
 <a class="knapp" href="trana.html">← Alla övningar</a></div></section></main>

diff --git a/ak9/trana-begrepp.html b/ak9/trana-begrepp.html
@@ -5,13 +5,13 @@
 <link href="https://fonts.googleapis.com/css2?family=Inter:wght@400;600;700;800;900&display=swap" rel="stylesheet">
 <link rel="icon" href="../bilder/logo-mattekompassen.png">
 <link rel="stylesheet" href="../stil.css">
-<style>:root{--ink:#4E3A5E;--mid:#8A6FA0;--l:#DCD0E6;--vl:#ECE5F1;--w:#F3EEE4;--hi:#D6C3E8}</style></head><body>
+<style>:root{--ink:#5C2A45;--mid:#9A5A7A;--l:#E3C8D5;--vl:#F2E3EA;--w:#F3EEE4;--hi:#EBC6D6}</style></head><body>
 <header><div class="wrap"><a class="logo" href="../index.html"><img src="../bilder/logo-mattekompassen.png" alt=""><span><b>Mattekompassen</b><small>Örtagårdsskolan 7–9</small></span></a>
 <nav aria-label="Huvudmeny"><a href="../index.html" class="">Startsida</a><a href="../ak7.html" class="">Åk 7</a><a href="../ak8.html" class="">Åk 8</a><a href="../ak9.html" class="on">Åk 9</a></nav></div></header>
 
 <div class="hero"><div class="wrap" style="justify-content:flex-start"><div class="num" aria-hidden="true">9</div>
 <div><div class="etikett">ÅK 9 · MATEMATIK Z · INTERAKTIVA ÖVNINGAR</div><h1>Matcha begrepp</h1><p>Para ihop begrepp med rätt förklaring.</p></div></div></div>
-<svg class="wave" style="background:#F3EEE4" viewBox="0 0 1440 70" preserveAspectRatio="none" aria-hidden="true"><path d="M0 0 H1440 V25 C1100 80 700 0 360 45 C200 64 80 54 0 35 Z" fill="#4E3A5E"/></svg><style>.kapblock{background:#EAE2EF}.kapblock:nth-child(even){background:#F0EAF3}.typ:nth-child(1){background:#5E4A6E}.typ:nth-child(2){background:#6A5478}.typ:nth-child(3){background:#5A4F70}.typ:nth-child(4){background:#6E5A72}.typ:nth-child(5){background:#66506E}.typ b{color:#F1E9F5}</style>
+<svg class="wave" style="background:#F3EEE4" viewBox="0 0 1440 70" preserveAspectRatio="none" aria-hidden="true"><path d="M0 0 H1440 V25 C1100 80 700 0 360 45 C200 64 80 54 0 35 Z" fill="#5C2A45"/></svg><style>.kapblock{background:#F2E3EA}.kapblock:nth-child(even){background:#F6ECF0}.typ:nth-child(1){background:#6A3A54}.typ:nth-child(2){background:#74445E}.typ:nth-child(3){background:#6B4258}.typ:nth-child(4){background:#7A4C63}.typ:nth-child(5){background:#704860}.typ b{color:#F7E9F0}</style>
 <main><section><div class="wrap"><h2 id="kaprubrik">Kapitel</h2>
 <div id="trana" data-lage="begrepp"></div>
 <a class="knapp" href="trana.html">← Alla övningar</a></div></section></main>

diff --git a/ak9/trana-rakna.html b/ak9/trana-rakna.html
@@ -5,13 +5,13 @@
 <link href="https://fonts.googleapis.com/css2?family=Inter:wght@400;600;700;800;900&display=swap" rel="stylesheet">
 <link rel="icon" href="../bilder/logo-mattekompassen.png">
 <link rel="stylesheet" href="../stil.css">
-<style>:root{--ink:#4E3A5E;--mid:#8A6FA0;--l:#DCD0E6;--vl:#ECE5F1;--w:#F3EEE4;--hi:#D6C3E8}</style></head><body>
+<style>:root{--ink:#5C2A45;--mid:#9A5A7A;--l:#E3C8D5;--vl:#F2E3EA;--w:#F3EEE4;--hi:#EBC6D6}</style></head><body>
 <header><div class="wrap"><a class="logo" href="../index.html"><img src="../bilder/logo-mattekompassen.png" alt=""><span><b>Mattekompassen</b><small>Örtagårdsskolan 7–9</small></span></a>
 <nav aria-label="Huvudmeny"><a href="../index.html" class="">Startsida</a><a href="../ak7.html" class="">Åk 7</a><a href="../ak8.html" class="">Åk 8</a><a href="../ak9.html" class="on">Åk 9</a></nav></div></header>
 
 <div class="hero"><div class="wrap" style="justify-content:flex-start"><div class="num" aria-hidden="true">9</div>
 <div><div class="etikett">ÅK 9 · MATEMATIK Z · INTERAKTIVA ÖVNINGAR</div><h1>Räkneträning</h1><p>Korta övningar med nya tal varje gång.</p></div></div></div>
-<svg class="wave" style="background:#F3EEE4" viewBox="0 0 1440 70" preserveAspectRatio="none" aria-hidden="true"><path d="M0 0 H1440 V25 C1100 80 700 0 360 45 C200 64 80 54 0 35 Z" fill="#4E3A5E"/></svg><style>.kapblock{background:#EAE2EF}.kapblock:nth-child(even){background:#F0EAF3}.typ:nth-child(1){background:#5E4A6E}.typ:nth-child(2){background:#6A5478}.typ:nth-child(3){background:#5A4F70}.typ:nth-child(4){background:#6E5A72}.typ:nth-child(5){background:#66506E}.typ b{color:#F1E9F5}</style>
+<svg class="wave" style="background:#F3EEE4" viewBox="0 0 1440 70" preserveAspectRatio="none" aria-hidden="true"><path d="M0 0 H1440 V25 C1100 80 700 0 360 45 C200 64 80 54 0 35 Z" fill="#5C2A45"/></svg><style>.kapblock{background:#F2E3EA}.kapblock:nth-child(even){background:#F6ECF0}.typ:nth-child(1){background:#6A3A54}.typ:nth-child(2){background:#74445E}.typ:nth-child(3){background:#6B4258}.typ:nth-child(4){background:#7A4C63}.typ:nth-child(5){background:#704860}.typ b{color:#F7E9F0}</style>
 <main><section><div class="wrap"><h2 id="kaprubrik">Kapitel</h2>
 <div id="trana" data-lage="rakna"></div>
 <a class="knapp" href="trana.html">← Alla övningar</a></div></section></main>

diff --git a/ak9/trana-quiz.html b/ak9/trana-quiz.html
@@ -5,13 +5,13 @@
 <link href="https://fonts.googleapis.com/css2?family=Inter:wght@400;600;700;800;900&display=swap" rel="stylesheet">
 <link rel="icon" href="../bilder/logo-mattekompassen.png">
 <link rel="stylesheet" href="../stil.css">
-<style>:root{--ink:#4E3A5E;--mid:#8A6FA0;--l:#DCD0E6;--vl:#ECE5F1;--w:#F3EEE4;--hi:#D6C3E8}</style></head><body>
+<style>:root{--ink:#5C2A45;--mid:#9A5A7A;--l:#E3C8D5;--vl:#F2E3EA;--w:#F3EEE4;--hi:#EBC6D6}</style></head><body>
 <header><div class="wrap"><a class="logo" href="../index.html"><img src="../bilder/logo-mattekompassen.png" alt=""><span><b>Mattekompassen</b><small>Örtagårdsskolan 7–9</small></span></a>
 <nav aria-label="Huvudmeny"><a href="../index.html" class="">Startsida</a><a href="../ak7.html" class="">Åk 7</a><a href="../ak8.html" class="">Åk 8</a><a href="../ak9.html" class="on">Åk 9</a></nav></div></header>
 
 <div class="hero"><div class="wrap" style="justify-content:flex-start"><div class="num" aria-hidden="true">9</div>
 <div><div class="etikett">ÅK 9 · MATEMATIK Z · INTERAKTIVA ÖVNINGAR</div><h1>Quiz</h1><p>Välj rätt svar bland fyra alternativ.</p></div></div></div>
-<svg class="wave" style="background:#F3EEE4" viewBox="0 0 1440 70" preserveAspectRatio="none" aria-hidden="true"><path d="M0 0 H1440 V25 C1100 80 700 0 360 45 C200 64 80 54 0 35 Z" fill="#4E3A5E"/></svg><style>.kapblock{background:#EAE2EF}.kapblock:nth-child(even){background:#F0EAF3}.typ:nth-child(1){background:#5E4A6E}.typ:nth-child(2){background:#6A5478}.typ:nth-child(3){background:#5A4F70}.typ:nth-child(4){background:#6E5A72}.typ:nth-child(5){background:#66506E}.typ b{color:#F1E9F5}</style>
+<svg class="wave" style="background:#F3EEE4" viewBox="0 0 1440 70" preserveAspectRatio="none" aria-hidden="true"><path d="M0 0 H1440 V25 C1100 80 700 0 360 45 C200 64 80 54 0 35 Z" fill="#5C2A45"/></svg><style>.kapblock{background:#F2E3EA}.kapblock:nth-child(even){background:#F6ECF0}.typ:nth-child(1){background:#6A3A54}.typ:nth-child(2){background:#74445E}.typ:nth-child(3){background:#6B4258}.typ:nth-child(4){background:#7A4C63}.typ:nth-child(5){background:#704860}.typ b{color:#F7E9F0}</style>
 <main><section><div class="wrap"><h2 id="kaprubrik">Kapitel</h2>
 <div id="trana" data-lage="quiz"></div>
 <a class="knapp" href="trana.html">← Alla övningar</a></div></section></main>
